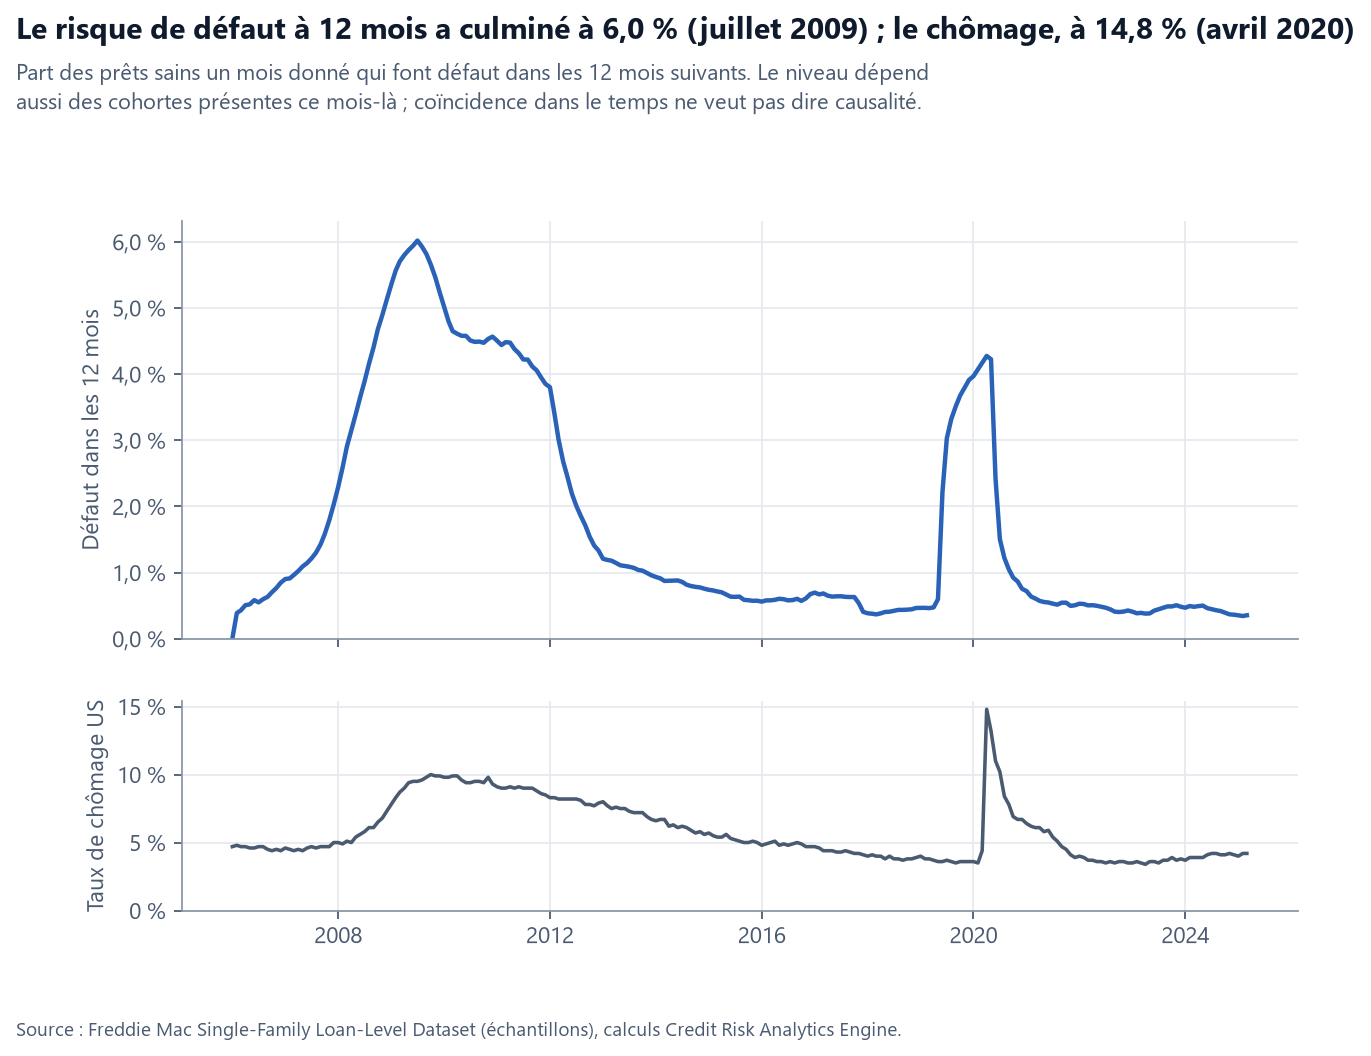
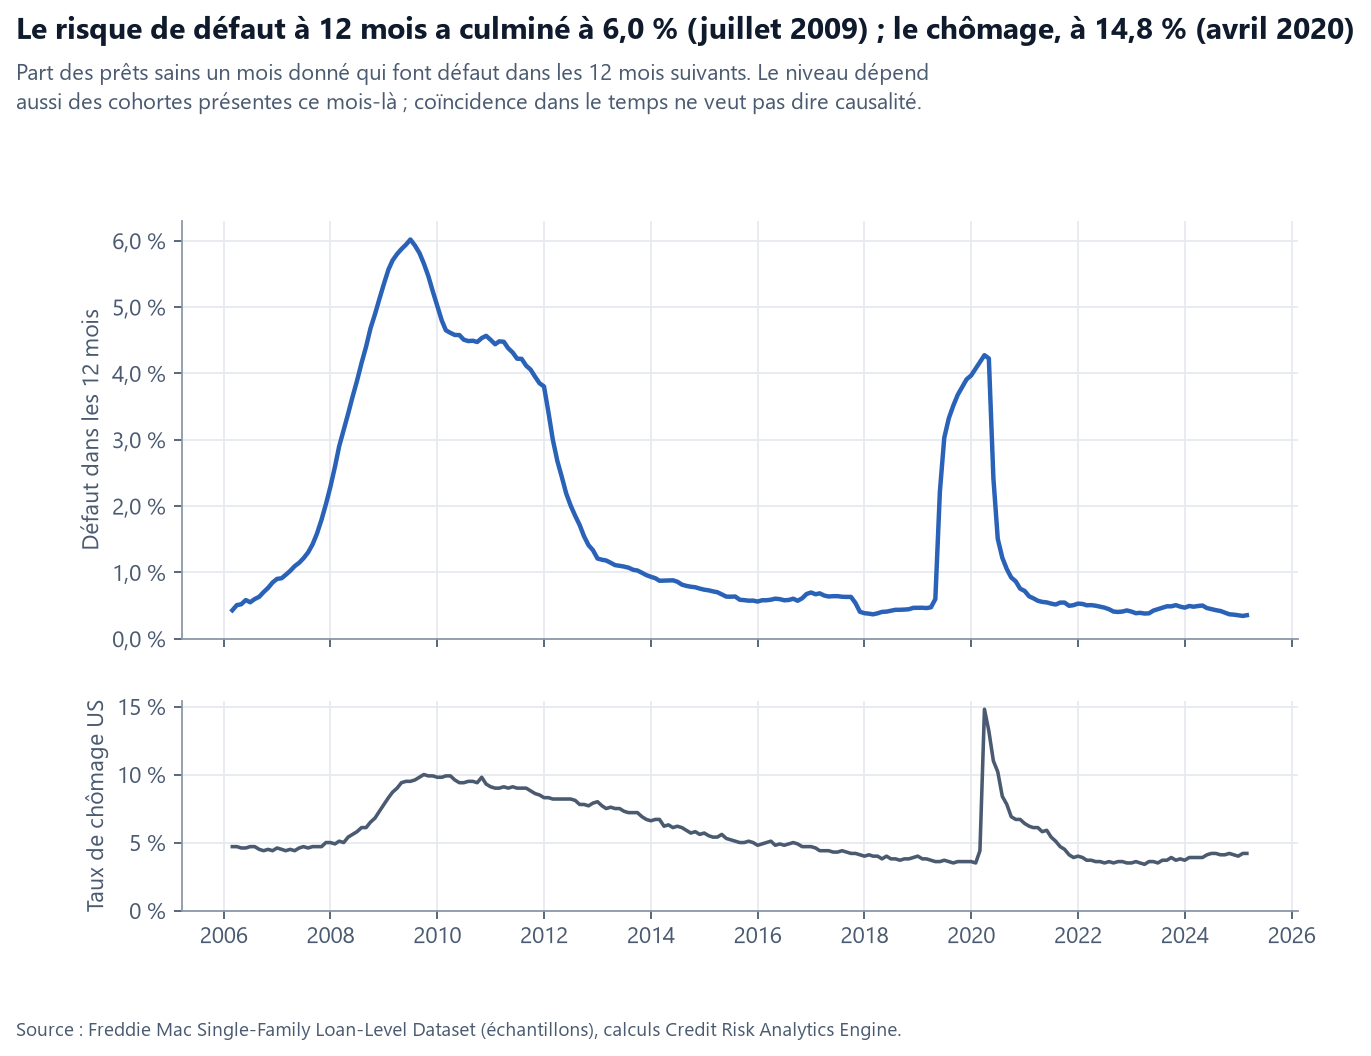
Phase 2 : définition du défaut, vintages, roll rates, signaux d'alerte, concentration

diff --git a/src/make_figures.py b/src/make_figures.py
@@ -170,7 +170,14 @@ def fig_roll_rates(con, out: Path) -> None:
     for i in range(m.shape[0]):
         for j in range(m.shape[1]):
             v = m.values[i, j]
-            label = "0 %" if v == 0 else (f"{fr(100 * v, 2)} %" if v < 0.01 else f"{fr(100 * v, 1)} %")
+            if v == 0:
+                label = "0 %"
+            elif v < 0.0001:                      # évite d'afficher « 0,00 % » pour un taux non nul
+                label = "< 0,01 %"
+            elif v < 0.01:
+                label = f"{fr(100 * v, 2)} %"
+            else:
+                label = f"{fr(100 * v, 1)} %"
             ax.text(j, i, label, ha="center", va="center", fontsize=9.5,
                     color="white" if v > 0.55 else INK)
     ax.set_xticks(range(len(cols)), [c.replace("Sortie avec perte", "Sortie\navec perte")
@@ -191,9 +198,12 @@ def fig_roll_rates(con, out: Path) -> None:
 
 # --- 4. Risque de défaut à 12 mois et chômage ------------------------------------
 def fig_pd12_macro(con, out: Path) -> None:
-    df = con.execute("SELECT period, pd12, unemployment_rate FROM v_pd12_by_month ORDER BY period").df()
+    df = con.execute("""SELECT period, pd12, n_performing, unemployment_rate
+                        FROM v_pd12_by_month ORDER BY period""").df()
     if df.empty:
         return
+    # on écarte les tout premiers mois, où trop peu de prêts sont observés pour un taux fiable
+    df = df[df["n_performing"] >= 0.05 * df["n_performing"].max()].reset_index(drop=True)
     peak = df.loc[df["pd12"].idxmax()]
     has_macro = df["unemployment_rate"].notna().any()
     title = (f"Le risque de défaut à 12 mois a culminé à {fr(100 * peak['pd12'])} % "

diff --git a/README.md b/README.md
@@ -77,6 +77,20 @@ Chaque résultat passe 13 contrôles de cohérence avant d'être affiché
 (`sql/11_analytics_checks.sql`) : taux entre 0 et 100 %, courbes cumulées croissantes,
 lignes de matrice à 100 %, somme des segments égale au total, etc.
 
+### Résultats clés
+
+- **Taux de défaut observé : 10,0 %** des 200 000 prêts (90 jours de retard ou sortie avec perte), dont 14,3 % pour la cohorte 2006, 16,4 % pour 2007, 3,4 % pour 2012 et 5,8 % pour 2017.
+- **À 5 ans d'ancienneté, la cohorte 2007 a fait 10 fois plus défaut que la cohorte 2012** (13,3 % contre 1,3 %) : profils plus risqués à l'octroi et crise immobilière dès les premières années.
+- **Le score FICO est fortement discriminant** : 33 % de défaut sous 620, contre 2,5 % à 780 et plus, dans toutes les cohortes.
+- **La LTV seule sous-estimait le risque d'avant-crise** : en 2006-2007, 2,4 fois plus de prêts dépassent 95 % en CLTV (prêts secondaires inclus) qu'en LTV.
+- **Un retard de 30 jours multiplie par 28 le risque de défaut à 12 mois** ; 39 % des prêts à 60 jours de retard passent à 90 jours le mois suivant.
+- **Sévérité des pertes : 49,5 %** de l'encours en moyenne, de 52 % pour 2006 à 14 % pour 2017, selon le niveau des prix immobiliers au moment de la revente.
+- **Effet Covid** : la cohorte 2017 fait davantage défaut que 2012 (5,8 % contre 3,4 %) mais ne perd presque rien (0,2 % de sorties avec perte). Les moratoires de 2020 apparaissent comme des retards, puis se régularisent.
+
+### Limites
+
+Prêts immobiliers américains conformes (pas de crédit aux entreprises) ; pas de critère d'improbabilité de paiement ; moratoires Covid comptés en défaut ; 994 prêts (0,5 %) dont la date de première échéance, réinitialisée par Freddie Mac, a été reconstituée à partir du trimestre d'octroi.
+
 ![Courbes de vintage](docs/figures/01_vintage_curves.png)
 ![Signaux d'alerte](docs/figures/05_early_warning_signals.png)
 
